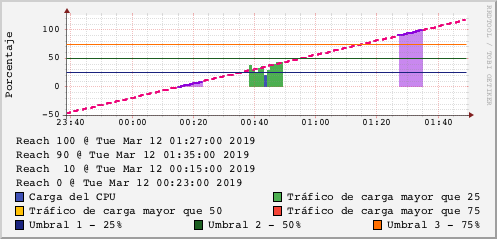
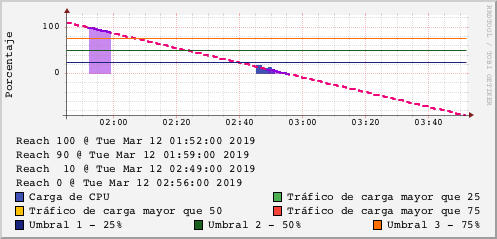
[Added] RAM and HDD

diff --git a/P1/tools/rrdt.py b/P1/tools/rrdt.py
@@ -85,6 +85,65 @@ def createRRDCPUImage(path, initial_time):
     except ValueError:
         ultimo_valor = 0
 
+def createRRDPredictionImage(path, initial_time, type_data, u1, u2, u3):
+    initial_time = int(initial_time) - 3600
+    rg = rrdtool.graphv(  path + "/trafico.png",
+                    "--start", str(initial_time),
+                    "--end", '+3600s',
+                    "--vertical-label=Porcentaje",
+                    '--lower-limit', '0',
+                    '--upper-limit', '100',
+                    "DEF:carga=" + path + "/trafico.rrd:CPUload:AVERAGE",
+                    "DEF:cargaCPUl=" + path + "/trafico.rrd:CPUload:AVERAGE",
+                    "DEF:cargaCPUm=" + path + "/trafico.rrd:CPUload:AVERAGE",
+                    "DEF:cargaCPUh=" + path + "/trafico.rrd:CPUload:AVERAGE",
+
+                    "CDEF:umbral25=cargaCPUl,"+ u1 +",LT,0,carga,IF",
+                    "CDEF:umbral50=cargaCPUl,"+ u2 +",LT,0,carga,IF",
+                    "CDEF:umbral75=cargaCPUl,"+ u3 +",LT,0,carga,IF",
+
+                    "VDEF:cargaMAX=carga,MAXIMUM",
+                    "VDEF:cargaMIN=carga,MINIMUM",
+                    "VDEF:cargaLAST=carga,LAST",
+                    "VDEF:m=carga,LSLSLOPE",
+                    "VDEF:b=carga,LSLINT",
+                    'CDEF:predline=carga,POP,m,COUNT,*,b,+',
+                    'CDEF:maxlimit=predline,90,100,LIMIT',
+                    'CDEF:minlimit=predline,0,10,LIMIT',
+                    'VDEF:upperminpoint=maxlimit,FIRST',
+                    'VDEF:uppermaxpoint=maxlimit,LAST',
+                    'VDEF:lowerminpoint=minlimit,FIRST',
+                    'VDEF:lowermaxpoint=minlimit,LAST',
+
+                    "GPRINT:upperminpoint:Reach 100% @ %c \\n:strftime",
+                    "GPRINT:uppermaxpoint:Reach 90% @ %c \\n:strftime",
+                    "GPRINT:lowerminpoint:Reach  10% @ %c \\n:strftime",
+                    "GPRINT:lowermaxpoint:Reach 0% @ %c \\n:strftime",
+
+                    "AREA:carga#3f51b5:Carga de " + type_data,
+                    "AREA:umbral25#4caf50:Tráfico de carga mayor que " + u1,
+                    "AREA:umbral50#ffc107:Tráfico de carga mayor que " + u2,
+                    "AREA:umbral75#f44336:Tráfico de carga mayor que " + u3,
+                    "HRULE:25#1a237e:Umbral 1 - "+ u1 +"%",
+                    "HRULE:50#1b5e20:Umbral 2 - "+ u2 +"%",
+                    "HRULE:75#ff6f00:Umbral 3 - "+ u3 +"%",
+
+                    "LINE2:predline#ef0078:dashes=5",
+                    "AREA:maxlimit#8b00dd77",
+                    "LINE2:maxlimit#8b00dd",
+                    "AREA:minlimit#8b00dd77",
+                    "LINE2:minlimit#8b00dd",
+
+                    #"PRINT:cargaMAX:%6.2lf %SMAX",
+                    #"PRINT:cargaMIN:%6.2lf %SMIN",
+                    #"PRINT:cargaLAST:%6.2lf %SLAST",
+                    "PRINT:cargaLAST:%6.2lf")
+
+    try:
+        ultimo_valor=float(rg['print[0]'])
+    except ValueError:
+        ultimo_valor = 0
+
 def updateAndDumpRRDDatabase(path, value):
     rrdtool.update(path + '/trafico.rrd', value)
     rrdtool.dump(path + '/trafico.rrd', path + '/trafico.xml')

diff --git a/P1/tools/information.py b/P1/tools/information.py
@@ -13,6 +13,8 @@ icmp_db = './data/rd/icmp'
 udp_db = './data/rd/udp'
 traffic_db = './data/rd/traffic'
 cpu_db = './data/rd/cpu'
+hdd_db = './data/rd/hdd'
+ram_db = './data/rd/ram'
 
 def getAgents():
     agents = []
@@ -95,21 +97,39 @@ def __generateAllImages():
 
 def generateAllPredictions(community, ip, port):
     rrdt.createPredictionDatabase(cpu_db)
+    rrdt.createPredictionDatabase(ram_db)
+    rrdt.createPredictionDatabase(hdd_db)
     thr.Thread(target=__generateGeneral, args=(community, ip, port,'getUnixCPU', cpu_db), daemon=True).start()
-    thr.Thread(target=__generateCPUImage, daemon=True).start()
+    thr.Thread(target=__generateGeneral, args=(community, ip, port,'getUnixHDD', hdd_db), daemon=True).start()
+    thr.Thread(target=__generateGeneral, args=(community, ip, port,'getUnixAvaliableRam', ram_db, 'getUnixTotalRam'), daemon=True).start()
+    thr.Thread(target=__generatePredictionImages, daemon=True).start()
 
-def __generateGeneral(community, ip, port, method, db):
-    while True:
+def __generateGeneral(community, ip, port, method, db, method2=None):
+    if method2:
         try:
-            cpu_load = int(getattr(nt,method)(community, ip, port))
+            snmp_total_value = int(getattr(nt,method2)(community, ip, port))
         except ValueError:
-            cpu_load = 0
-        value = "N:" + str(cpu_load)
+            snmp_total_value = 0
+    while True:
+        if method2:
+            try:
+                snmp_pre_value = snmp_total_value - int(getattr(nt,method)(community, ip, port))
+                snmp_value = (snmp_pre_value * 100) // snmp_total_value
+            except ValueError:
+                snmp_value = 0
+        else:
+            try:
+                snmp_value = int(getattr(nt,method)(community, ip, port))
+            except ValueError:
+                snmp_value = 0
+        value = "N:" + str(snmp_value)
         rrdt.updateAndDumpRRDDatabase(db, value)
         time.sleep(5)
 
-def __generateCPUImage():
+def __generatePredictionImages():
     current_time = str(int(time.time()))
     while True:
-        rrdt.createRRDCPUImage(cpu_db, current_time)
+        rrdt.createRRDPredictionImage(cpu_db, current_time, "CPU", "25", "50", "75")
+        rrdt.createRRDPredictionImage(ram_db, current_time, "RAM", "25", "50", "75")
+        rrdt.createRRDPredictionImage(hdd_db, current_time, "HDD", "25", "50", "75")
         time.sleep(20)

diff --git a/P1/main.py b/P1/main.py
@@ -160,8 +160,14 @@ class Application:
             for widget in self.graphs_resources_frame.winfo_children():
                 widget.destroy()
             photo = ImageTk.PhotoImage(file ="./data/rd/cpu/trafico.png")
-            lbTrafico = ttk.Label(self.graphs_resources_frame,image=photo, text="Grafica1")
-            lbTrafico.grid(row=0, column=0)
+            photo2 = ImageTk.PhotoImage(file ="./data/rd/ram/trafico.png")
+            photo3 = ImageTk.PhotoImage(file ="./data/rd/hdd/trafico.png")
+            lbPrediction = ttk.Label(self.graphs_resources_frame,image=photo, text="Grafica1")
+            lbPrediction2 = ttk.Label(self.graphs_resources_frame,image=photo2, text="Grafica2")
+            lbPrediction3 = ttk.Label(self.graphs_resources_frame,image=photo3, text="Grafica3")
+            lbPrediction.grid(row=0, column=0)
+            lbPrediction2.grid(row=0, column=1)
+            lbPrediction3.grid(row=1, column=0)
             time.sleep(30)
 
 master = tk.Tk()

diff --git a/P1/tools/network.py b/P1/tools/network.py
@@ -1,6 +1,6 @@
 import subprocess, platform
 from pysnmp.hlapi import *
-from tools.constants import OIDPREFIX, OID
+from tools.constants import OIDPREFIX, OIDRESPREFIX, OID
 
 def getSnmpInfo(communityName, ip, port, oid, is_complete=False):
     result = ""
@@ -67,6 +67,15 @@ def getOS(communityName, ip, port):
 
 def getUnixCPU(communityName, ip, port):
     return getSnmpInfo(communityName, ip, port, OIDPREFIX + OID.UnixCPU.value)
+
+def getUnixHDD(communityName, ip, port):
+    return getSnmpInfo(communityName, ip, port, OIDRESPREFIX + OID.UnixPercentajeOfHDD.value)
+
+def getUnixTotalRam(communityName, ip, port):
+    return getSnmpInfo(communityName, ip, port, OIDRESPREFIX + OID.UnixTotalRAM.value)
+
+def getUnixAvaliableRam(communityName, ip, port):
+    return getSnmpInfo(communityName, ip, port, OIDRESPREFIX + OID.UnixFreeRAM.value)
 
 def getInterfaces(communityName, ip, port):
   interfaces = []

diff --git a/P1/tools/constants.py b/P1/tools/constants.py
@@ -1,6 +1,7 @@
 from enum import Enum
 
 OIDPREFIX = '1.3.6.1.2.1'
+OIDRESPREFIX = '1.3.6.1.4.1'
 
 class OID(Enum):
     TCPInputTraffic = '.6.10.0'
@@ -22,3 +23,6 @@ class OID(Enum):
     Interfaces = '.2.2.1.2'
     InterfaceStatus = '.2.2.1.8'
     UnixCPU = '.25.3.3.1.2.196608'
+    UnixTotalRAM = '.2021.4.5.0'
+    UnixFreeRAM = '.2021.4.6.0'
+    UnixPercentajeOfHDD = '.2021.9.1.9.1'
